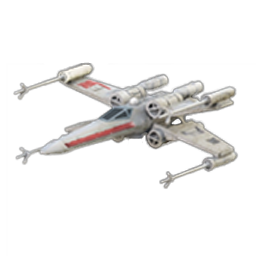
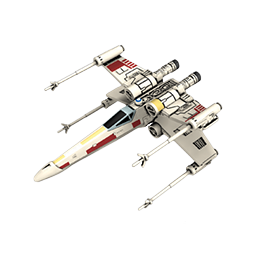
Improved the quality of the T-65 X-Wing

Changed region(s): [[0.0312, 0.1562, 0.9375, 0.8438]]

diff --git a/README.md b/README.md
@@ -15,7 +15,7 @@ The status of each ship is color-coded below:
 
 #### Wave 1
 
-* ![#ffff00](https://placehold.it/15/ffff00/000000?text=+) X-Wing
+* ![#00ff00](https://placehold.it/15/00ff00/000000?text=+) X-Wing
 * ![#00ff00](https://placehold.it/15/00ff00/000000?text=+) TIE Fighter
 * ![#00ff00](https://placehold.it/15/00ff00/000000?text=+) Y-Wing
 * ![#00ff00](https://placehold.it/15/00ff00/000000?text=+) TIE Advanced
